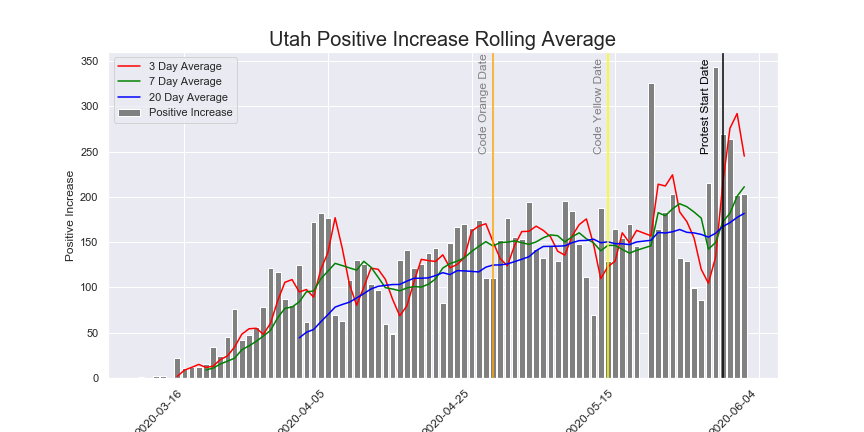
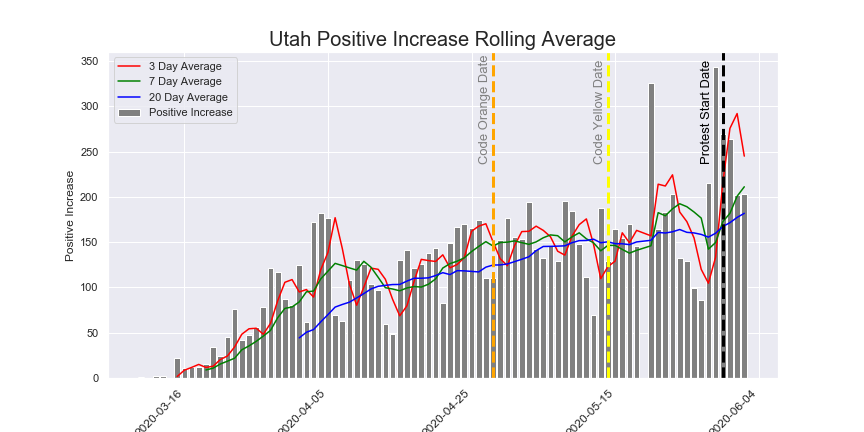
Dotted Date Lines

diff --git a/My_COVID_API.py b/My_COVID_API.py
@@ -105,12 +105,12 @@ new_labels = [date.fromordinal(int(item)) for item in ax.get_xticks()]
 ax.set_xticklabels(labels=new_labels, rotation=90, ha='right',fontdict={'fontsize':12})
 
 
-ax.axvline( x=OrangeDate, color='orange')
-ax.annotate('Code Orange Date', (OrangeDate - 2,355),color='gray',rotation=90)
-ax.axvline( x=YellowDate, color='yellow')
-ax.annotate('Code Yellow Date', (YellowDate - 2,355),color='gray',rotation=90)
-ax.axvline( x=ProtestDate, color='black')
-ax.annotate('Protest Start Date', (ProtestDate - 2 ,355),color='black',rotation=90)
+ax.axvline(x=OrangeDate, color='orange', linewidth=3, linestyle = '--')
+ax.annotate('Code Orange Date', (OrangeDate - 2,340),color='gray',rotation=90,fontsize=13)
+ax.axvline( x=YellowDate, color='yellow', linewidth=3, linestyle = '--')
+ax.annotate('Code Yellow Date', (YellowDate - 2,340),color='gray',rotation=90,fontsize=13)
+ax.axvline( x=ProtestDate, color='black', linewidth=3, linestyle = '--')
+ax.annotate('Protest Start Date', (ProtestDate - 2 ,355),color='black',rotation=90,fontsize=13)
 
 plt.title('Utah Positive Increase (non)Hospitalized', fontdict={'fontsize':20})
 plt.xlabel('Date', fontdict={'fontsize':12})
@@ -142,12 +142,12 @@ plt.legend(loc='upper left')
 new_labels = [date.fromordinal(int(item)) for item in ax.get_xticks()]
 ax.set_xticklabels(labels=new_labels, rotation=45, ha='right',fontdict={'fontsize':12})
 
-ax.axvline( x=OrangeDate, color='orange')
-ax.annotate('Code Orange Date', (OrangeDate - 2,250),color='gray',rotation=90)
-ax.axvline( x=YellowDate, color='yellow')
-ax.annotate('Code Yellow Date', (YellowDate - 2,250),color='gray',rotation=90)
-ax.axvline( x=ProtestDate, color='black')
-ax.annotate('Protest Start Date', (ProtestDate - 3 ,250),color='black',rotation=90)
+ax.axvline(x=OrangeDate, color='orange', linewidth=3, linestyle = '--')
+ax.annotate('Code Orange Date', (OrangeDate - 2,240),color='gray',rotation=90,fontsize=13)
+ax.axvline( x=YellowDate, color='yellow', linewidth=3, linestyle = '--')
+ax.annotate('Code Yellow Date', (YellowDate - 2,240),color='gray',rotation=90,fontsize=13)
+ax.axvline( x=ProtestDate, color='black', linewidth=3, linestyle = '--')
+ax.annotate('Protest Start Date', (ProtestDate - 3 ,240),color='black',rotation=90,fontsize=13)
 
 plt.title('Utah Positive Increase Rolling Average', fontdict={'fontsize':20})
 plt.xlabel('Date', fontdict={'fontsize':12})
@@ -336,6 +336,16 @@ plt.xlabel('Date', fontdict={'fontsize':12})
 plt.ylabel('Positive Increase', fontdict={'fontsize':12})
 plt.axis('tight')
 plt.savefig('CA_Increase_Rolling_Avg.png')
+
+
+ax.axvline(x=OrangeDate, color='orange', linewidth=3, linestyle = '--')
+ax.annotate('Code Orange Date', (OrangeDate - 2,2500),color='gray',rotation=90,fontsize=13)
+ax.axvline( x=YellowDate, color='yellow', linewidth=3, linestyle = '--')
+ax.annotate('Code Yellow Date', (YellowDate - 2,2500),color='gray',rotation=90,fontsize=13)
+ax.axvline( x=ProtestDate, color='black', linewidth=3, linestyle = '--')
+ax.annotate('Protest Start Date', (ProtestDate - 2 ,2700),color='black',rotation=90,fontsize=13)
+
+
 plt.show()
  
 
@@ -392,6 +402,9 @@ plt.title('CA Positve Per Test', fontdict={'fontsize':20})
 plt.xlabel('Date', fontdict={'fontsize':12})
 plt.ylabel('Positive/Test', fontdict={'fontsize':12})
 ax.set_xticklabels(new_labels, rotation = 45)
+
+
+
 
 plt.savefig('CA_Positive_Per_Test.png')
 plt.show()
